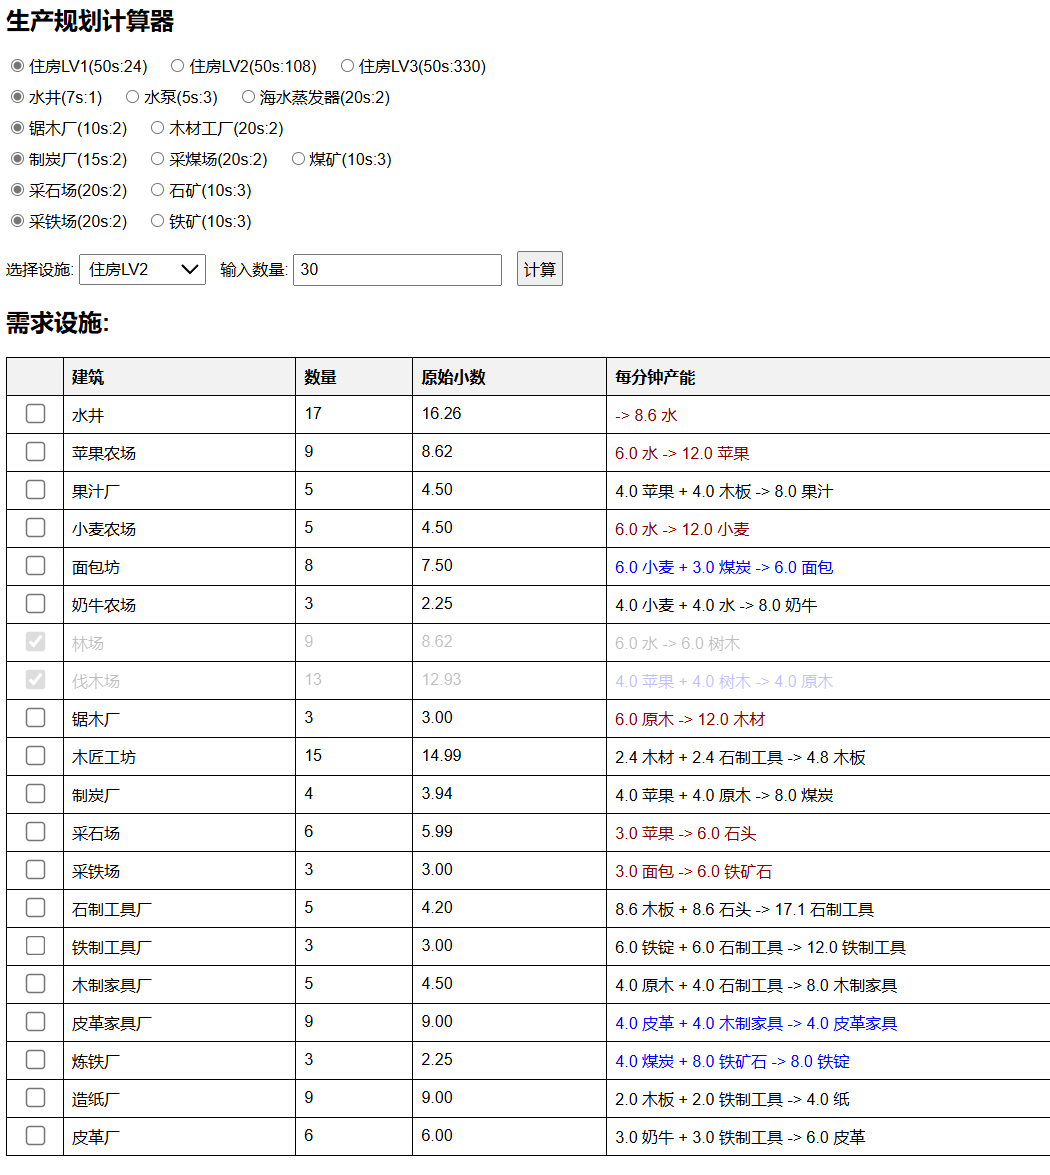
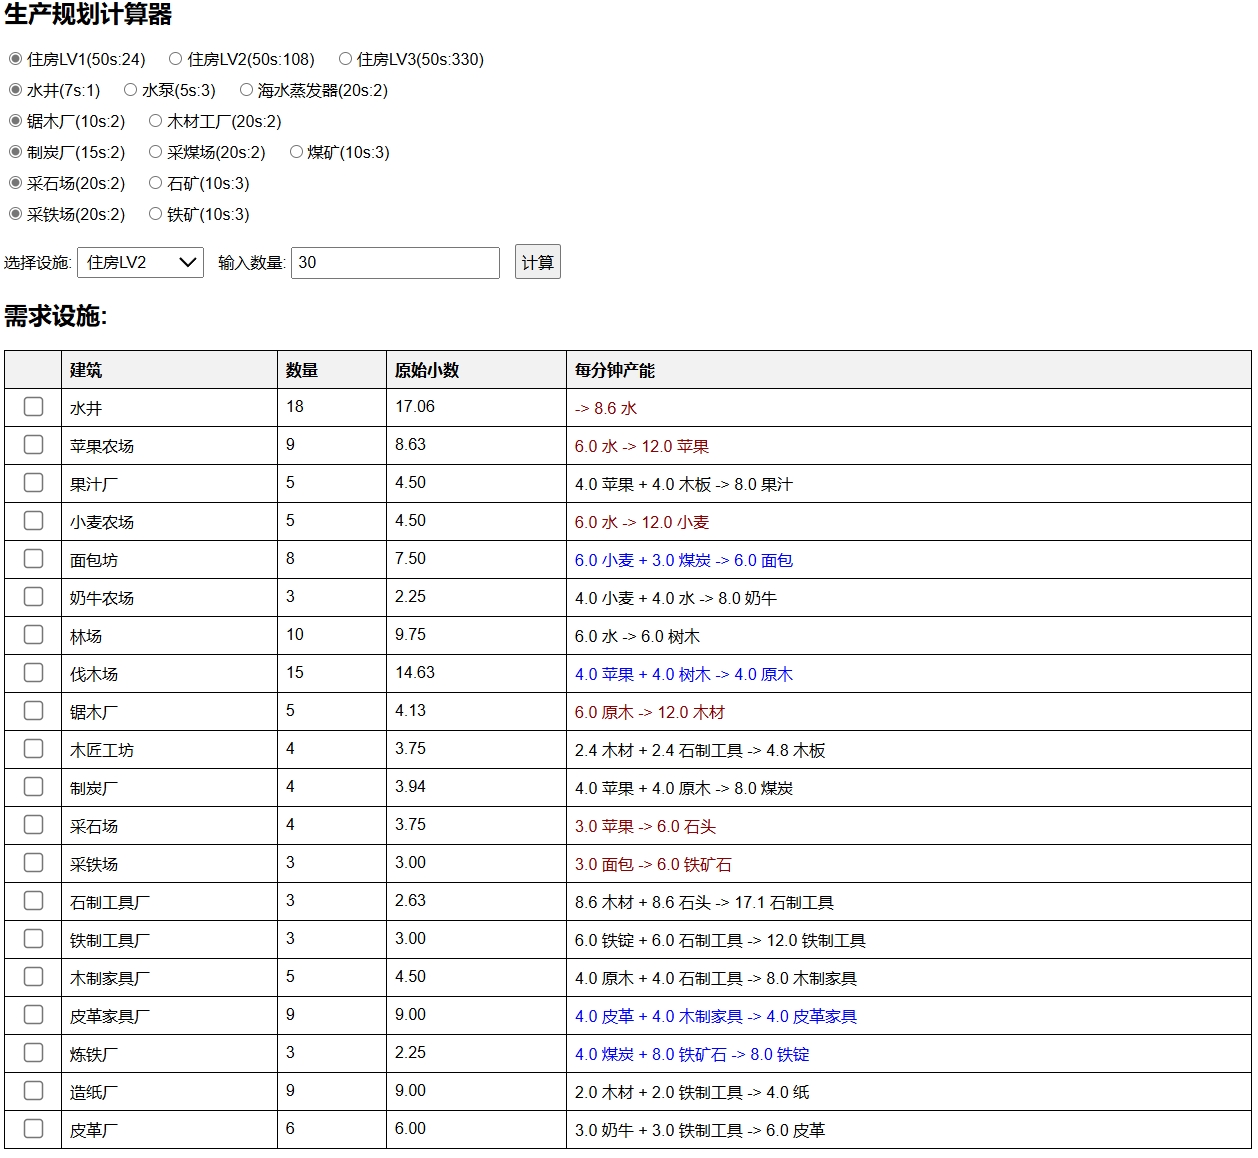
fix:木板和木材 其余配方

diff --git a/index.html b/index.html
@@ -240,7 +240,7 @@
         },
         石制工具厂: {
           output: { 石制工具: 2 },
-          input: { 木板: 1, 石头: 1 },
+          input: { 木材: 1, 石头: 1 },
           time: 7,
         },
         铁制工具厂: {
@@ -285,7 +285,7 @@
         },
         造纸厂: {
           output: { 纸: 2 },
-          input: { 木板: 1, 铁制工具: 1 },
+          input: { 木材: 1, 铁制工具: 1 },
           time: 30,
         },
         皮革厂: {
@@ -300,7 +300,7 @@
         },
         炼钢厂: {
           output: { 钢材: 1 },
-          input: { 煤炭: 1, 铁矿石: 1 },
+          input: { 煤炭: 1, 铁锭: 1 },
           time: 20,
         },
         图书馆: {
